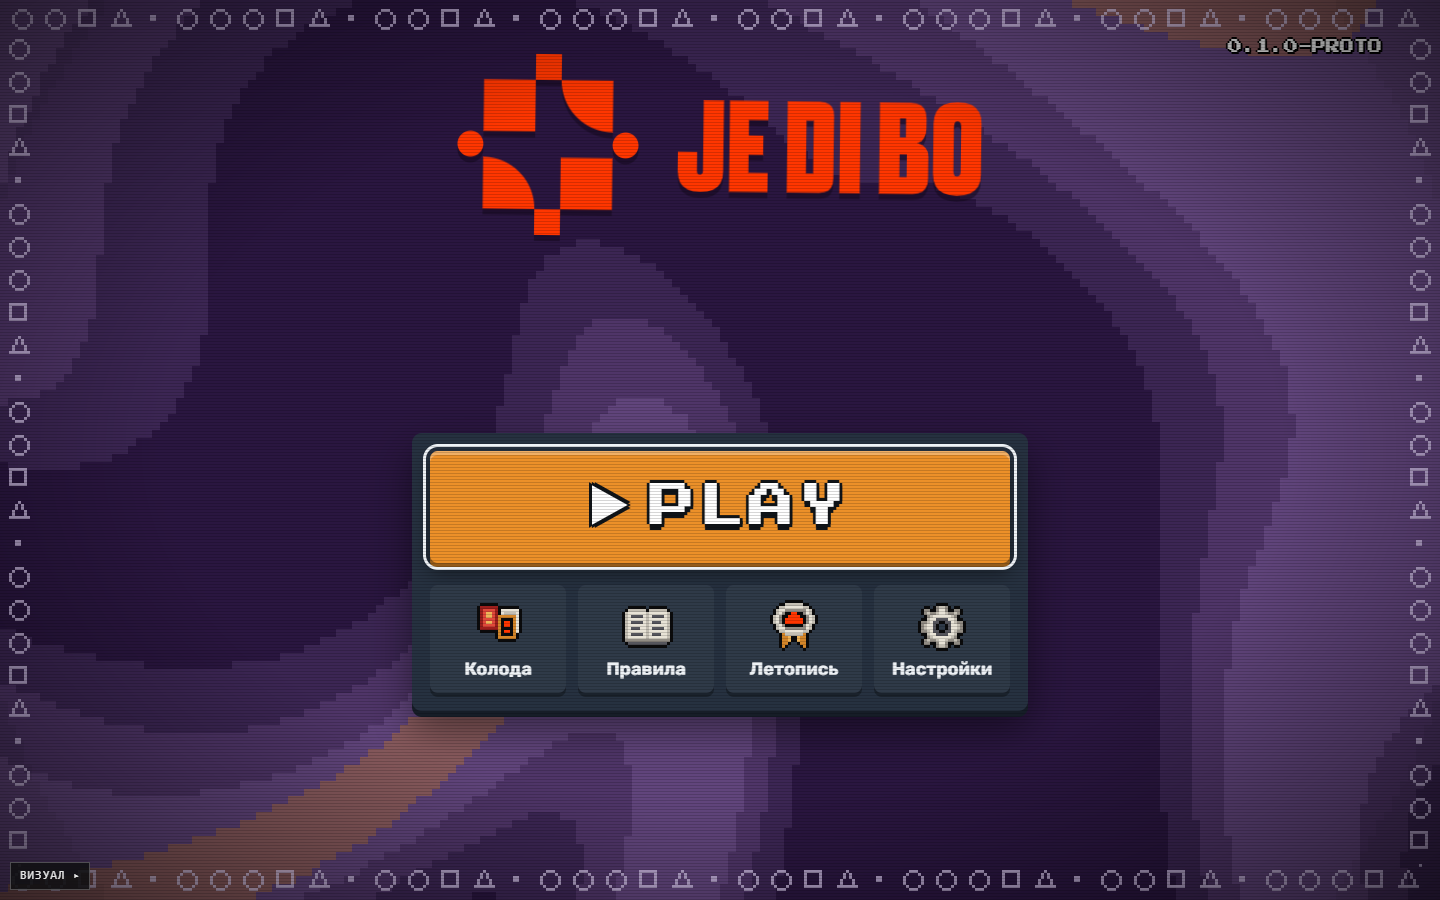
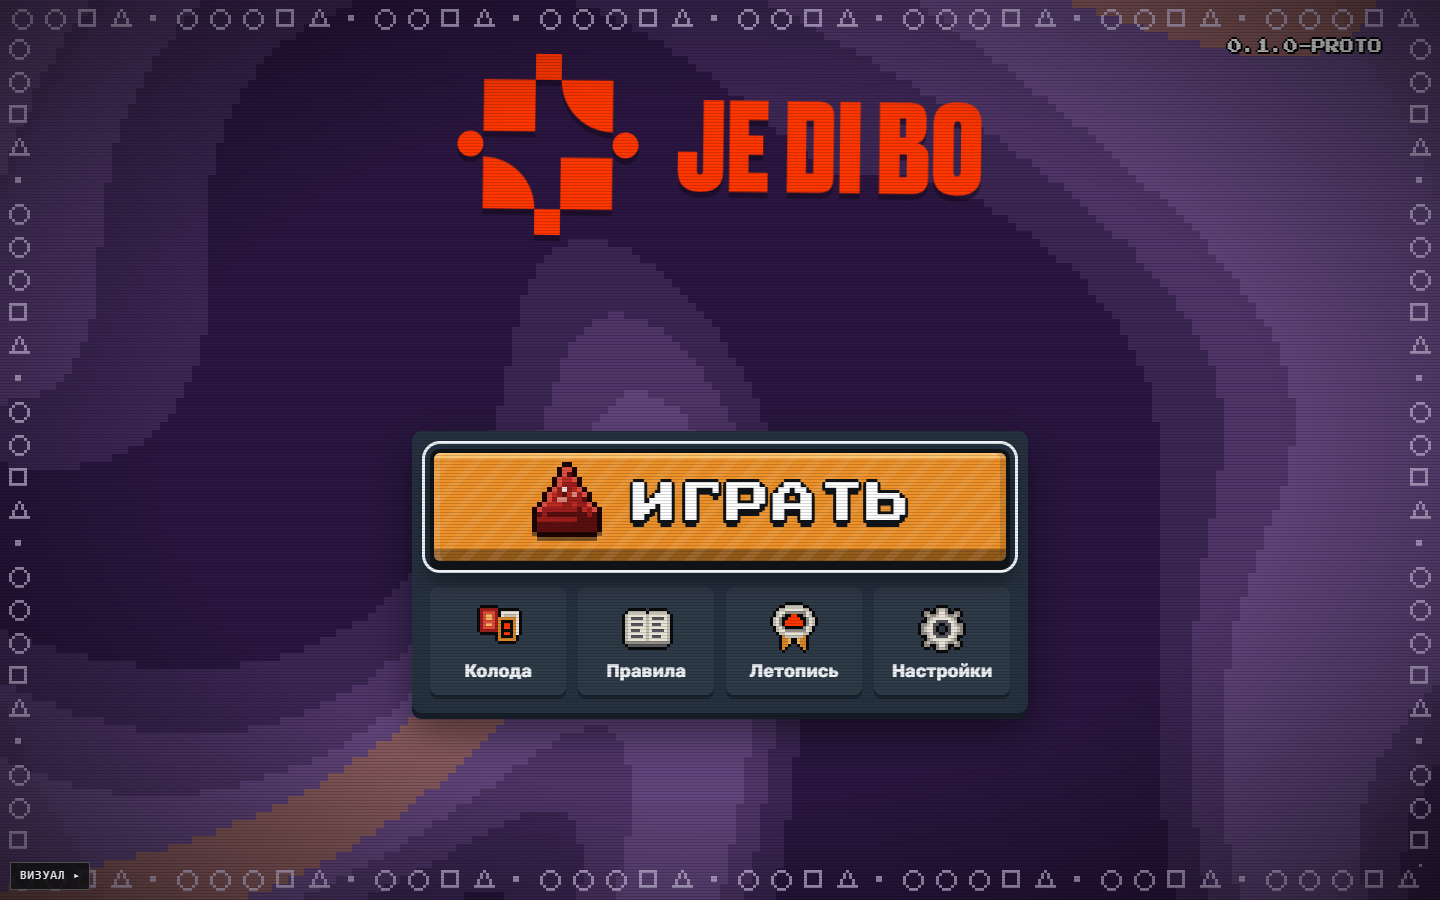
Меню «б»: кнопка «Играть» с треугольником из партии, фаской, фактурой и бегущим бликом

Changed region(s): [[0.2812, 0.4667, 0.7188, 0.8089], [0.2188, 0.84, 0.25, 0.8711]]

diff --git a/src/styles/variants/b.css b/src/styles/variants/b.css
@@ -36,6 +36,8 @@ body.ui-b.theme-dark {
   --b-shadow: rgba(0, 0, 0, 0.45);
   --b-frame: #d8c8ee;
   --b-tile-band: rgba(12, 16, 22, 0.82);
+  --b-play-hi: #ffc068;
+  --b-play-ink: #101418;
   --b-bg-menu-a: #2a1640;
   --b-bg-menu-b: #61457c;
   --b-bg-menu-c: #925f55;
@@ -78,6 +80,8 @@ body.ui-b.theme-light {
   --b-shadow: rgba(70, 55, 40, 0.28);
   --b-frame: #7c68a0;
   --b-tile-band: rgba(250, 247, 242, 0.9);
+  --b-play-hi: #ffc068;
+  --b-play-ink: #2a1a0c;
   --b-bg-menu-a: #c4b5d8;
   --b-bg-menu-b: #e8e0f1;
   --b-bg-menu-c: #ecc4ac;
@@ -193,41 +197,43 @@ body.ui-b .bm-panel {
   box-shadow: 0 6px 0 var(--b-panel-edge), 0 18px 40px var(--b-shadow);
   display: flex; flex-direction: column; gap: 22px;
 }
+/* кнопка «Играть»: оранжевая плита с пиксельной фаской, тёмной обводкой, диагональной фактурой
+   и бликом, пробегающим ступенями; значок — красный треугольник из партии */
 body.ui-b .bm-play {
-  display: flex; align-items: center; justify-content: center; gap: 22px; cursor: pointer;
-  height: 112px; border: none; border-radius: 8px;
-  background: var(--b-accent);
-  box-shadow: inset 0 4px 0 rgba(255, 255, 255, 0.28), 0 6px 0 var(--b-accent-edge), 0 10px 18px var(--b-shadow);
-  font-family: var(--b-f-head); font-size: 46px; letter-spacing: 0.08em; color: #fff;
-  text-shadow: 3px 0 0 #101418, -3px 0 0 #101418, 0 3px 0 #101418, 0 -3px 0 #101418, 3px 3px 0 #101418, 0 6px 0 #101418;
+  position: relative; overflow: hidden; cursor: pointer;
+  display: flex; align-items: center; justify-content: center; gap: 26px;
+  height: 116px; border: 4px solid var(--b-play-ink); border-radius: 10px;
+  background:
+    repeating-linear-gradient(-45deg, rgba(255, 255, 255, 0.07) 0 8px, transparent 8px 20px),
+    linear-gradient(var(--b-play-hi) 0 6px, var(--b-accent) 6px calc(100% - 12px), var(--b-accent-edge) calc(100% - 12px));
+  box-shadow: inset 6px 0 0 rgba(255, 255, 255, 0.12), inset -6px 0 0 rgba(0, 0, 0, 0.12), 0 6px 0 var(--b-play-ink), 0 14px 22px var(--b-shadow);
   transition: transform 0.12s var(--bounce), filter 0.12s;
 }
-body.ui-b .bm-play:hover { transform: translateY(-3px); filter: brightness(1.06); }
-body.ui-b .bm-play:active { transform: translateY(4px); box-shadow: inset 0 4px 0 rgba(255, 255, 255, 0.28), 0 2px 0 var(--b-accent-edge); }
-body.ui-b .bm-play:focus-visible { outline: 3px solid var(--b-text); outline-offset: 4px; }
-/* пиксельный треугольник «▶» с той же обводкой */
-body.ui-b .bm-play-icon::before { content: ''; display: block; width: 100%; height: 100%; background: #fff; clip-path: polygon(0 0, 100% 50%, 0 100%); }
-body.ui-b .bm-play-icon {
-  width: 36px; height: 40px; margin-top: -4px;
-  filter: drop-shadow(3px 0 0 #101418) drop-shadow(-3px 0 0 #101418) drop-shadow(0 3px 0 #101418) drop-shadow(0 -3px 0 #101418);
+body.ui-b .bm-play:hover { transform: translateY(-3px); filter: brightness(1.07); }
+body.ui-b .bm-play:active { transform: translateY(4px); box-shadow: inset 6px 0 0 rgba(255, 255, 255, 0.12), inset -6px 0 0 rgba(0, 0, 0, 0.12), 0 2px 0 var(--b-play-ink); }
+body.ui-b .bm-play:focus-visible { outline: 3px solid var(--b-text); outline-offset: 5px; }
+body.ui-b .bm-play-text {
+  position: relative; margin-top: -6px;
+  font-family: var(--b-f-head); font-size: 44px; letter-spacing: 0.06em; color: #fff;
+  text-shadow: 3px 0 0 var(--b-play-ink), -3px 0 0 var(--b-play-ink), 0 3px 0 var(--b-play-ink), 0 -3px 0 var(--b-play-ink),
+    3px 3px 0 var(--b-play-ink), -3px 3px 0 var(--b-play-ink), 0 7px 0 var(--b-play-ink);
 }
-body.ui-b .bm-tile {
-  position: relative; display: flex; flex-direction: column; align-items: center; cursor: pointer;
-  width: 100%; padding: 0; overflow: hidden; border-radius: 8px;
-  background: var(--b-tile); border: 4px solid var(--b-on);
-  box-shadow: 0 5px 0 var(--b-tile-edge); transition: transform 0.12s var(--bounce);
+/* треугольник из партии с жёсткой тенью; на наведении — подпрыгивает ступенями */
+body.ui-b .bm-play-piece { position: relative; width: 80px; height: 80px; margin-top: -10px; filter: drop-shadow(0 4px 0 rgba(16, 20, 24, 0.5)); }
+body.ui-b .bm-play-tri { display: block; }
+body.ui-b .bm-play:hover .bm-play-piece { animation: playHop 0.5s steps(4) infinite; }
+@keyframes playHop { 0%, 100% { transform: translateY(0); } 50% { transform: translateY(-10px); } }
+/* блик-полоса пробегает по кнопке раз в несколько секунд, ступенями */
+body.ui-b .bm-play-sheen {
+  position: absolute; top: 0; bottom: 0; left: -30%; width: 24%;
+  background: linear-gradient(90deg, transparent 0 20%, rgba(255, 255, 255, 0.22) 20% 45%, transparent 45% 60%, rgba(255, 255, 255, 0.14) 60% 72%, transparent 72%);
+  transform: skewX(-20deg); animation: playSheen 4.5s steps(18) infinite; pointer-events: none;
 }
-body.ui-b .bm-tile:hover:not(:disabled) { transform: translateY(-3px); }
-body.ui-b .bm-tile-art { width: 100%; display: flex; justify-content: center; background: var(--b-track); line-height: 0; }
-body.ui-b .bm-tile-art canvas { display: block; }
-body.ui-b .bm-tile-title {
-  margin-top: -26px; position: relative; font-family: var(--b-f-head); font-size: 30px; letter-spacing: 0.02em; color: #fff;
-  text-shadow: 2px 0 0 #101418, -2px 0 0 #101418, 0 2px 0 #101418, 0 -2px 0 #101418, 2px 2px 0 #101418, 0 5px 0 #101418;
+@keyframes playSheen { 0%, 62% { left: -30%; } 100% { left: 115%; } }
+@media (prefers-reduced-motion: reduce) {
+  body.ui-b .bm-play-sheen, body.ui-b .bm-play:hover .bm-play-piece { animation: none; }
 }
-body.ui-b .bm-tile-sub {
-  width: calc(100% - 20px); margin: 8px 10px 10px; padding: 8px; border-radius: 4px;
-  background: var(--b-tile-band); color: var(--b-text); font-weight: 700; font-size: 14px; letter-spacing: 0.12em;
-}
+
 body.ui-b .bm-bar { display: grid; grid-template-columns: repeat(4, 136px); gap: 12px; }
 body.ui-b .bm-icon {
   display: flex; flex-direction: column; align-items: center; gap: 4px; cursor: pointer;

diff --git a/src/ui/variants/menu/b.ts b/src/ui/variants/menu/b.ts
@@ -1,6 +1,8 @@
-// Меню, вариант «б» (референс 1:1): пиксельный вихрь, рамка из фигур, логотип, панель с кнопкой Play
+// Меню, вариант «б» (референс 1:1): пиксельный вихрь, рамка из фигур, логотип, панель с кнопкой «Играть»
 // и нижний ряд кнопок-иконок. Навигация стрелками и Enter.
+import { Rank } from '../../../core/types';
 import { setMood } from '../../../render/background';
+import { pieceSprite } from '../../../render/sprites';
 import { canvasEl, h } from '../../dom';
 import { logoEl } from '../../widgets';
 import { VERSION } from '../../screens/menu';
@@ -20,8 +22,13 @@ export function menuB(root: HTMLElement) {
   const iconBtn = (icon: MenuIcon, label: string, id: Parameters<typeof open>[0]) =>
     press(h('button', { class: 'bm-icon' }, canvasEl(menuIcon(icon), 3, 'bm-icon-art'), h('span', {}, label)), () => open(id));
 
-  // по решению владельца вместо плитки «Классика» — одна большая кнопка Play (дальше — выбор режима)
-  const play = press(h('button', { class: 'bm-play', 'aria-label': 'Play' }, h('span', { class: 'bm-play-icon' }), 'PLAY'), () => open('modeSelect'));
+  // по решению владельца вместо плитки «Классика» — одна кнопка «Играть» (дальше — выбор режима);
+  // значок — наш красный треугольник из партии
+  const tri = canvasEl(pieceSprite(Rank.Triangle, 'red', true), 5, 'bm-play-tri');
+  const play = press(
+    h('button', { class: 'bm-play' }, h('span', { class: 'bm-play-sheen' }), h('span', { class: 'bm-play-piece' }, tri), h('span', { class: 'bm-play-text' }, 'ИГРАТЬ')),
+    () => open('modeSelect'),
+  );
 
   root.append(
     h(
